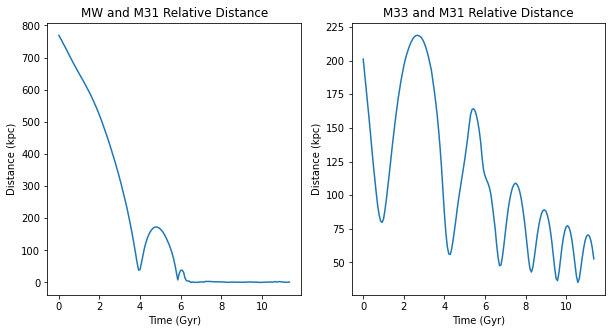
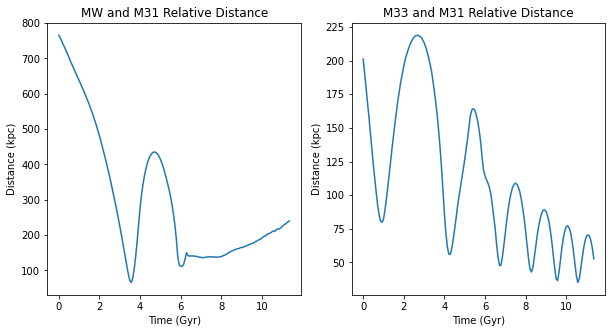
update HW6

diff --git a/Homework/Homework6/OrbitCOM.py b/Homework/Homework6/OrbitCOM.py
@@ -161,8 +161,8 @@ def vector_dif(vector1,vector2):
 # Determine the magnitude of the relative position and velocities 
 
 # of MW and M31
-MW_M31_dr=vector_dif([MW_data['x'],MW_data['y'],MW_data['z']],[M31_data['x'],M31_data['y'],M31_data['z']])
-MW_M31_dv=vector_dif([MW_data['vx'],MW_data['vy'],MW_data['vz']],[M31_data['vx'],M31_data['vy'],M31_data['vz']])
+MW_M31_dr=vector_dif([MW_data['x'],MW_data['y'],MW_data['z']],[M31_data['x']-MW_data['x'],M31_data['y']-MW_data['y'],M31_data['z']-MW_data['z']])
+MW_M31_dv=vector_dif([MW_data['vx'],MW_data['vy'],MW_data['vz']],[M31_data['vx']-MW_data['vx'],M31_data['vy']-MW_data['vy'],M31_data['vz']-MW_data['vz']])
 
 # of M33 and M31
 M33_M31_dr=vector_dif([M33_data['x'],M33_data['y'],M33_data['z']],[M31_data['x'],M31_data['y'],M31_data['z']])
